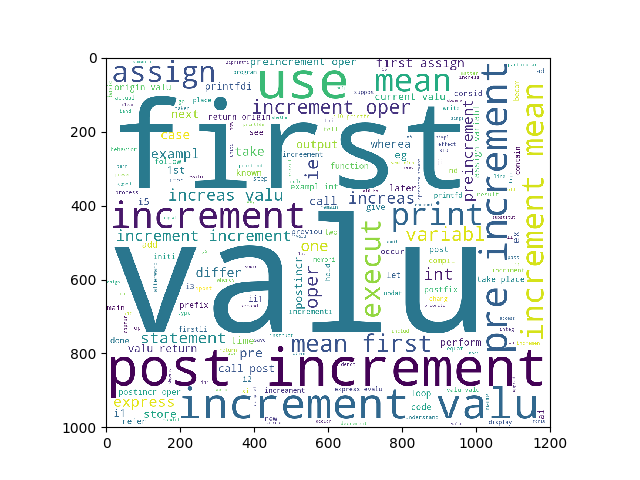
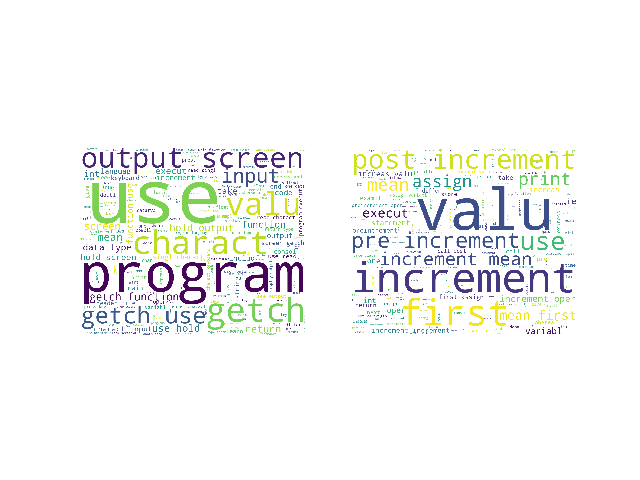
fix dataprocess

diff --git a/dataProcess.py b/dataProcess.py
@@ -1,3 +1,4 @@
+import numpy as np
 from sklearn.feature_extraction.text import TfidfVectorizer
 from sklearn.cluster import KMeans
 from wordcloud import WordCloud, STOPWORDS
@@ -14,25 +15,25 @@ def data_process(messages, k=2):
 
 
 def get_text_from_clasters(corpus, y):
-    cluster1_text = ""
-    cluster2_text = ""
     text = []
     for idx, claster in enumerate(y):
-        if claster == 0:
-            cluster1_text += corpus[idx] + " "
-        if claster == 1:
-            cluster2_text += corpus[idx] + " "
-    text.insert(1, cluster1_text)
-    text.insert(2, cluster2_text)
+        try:
+            text[claster] += corpus[idx] + " "
+            print()
+        except IndexError:
+            text.insert(claster, corpus[idx] + " ")
     return text
 
 
-def build_word_cloud(text, img_name):
-    wordcloud = WordCloud(background_color='white',
-                          width=1200,
-                          height=1000
-                          ).generate(text)
-    plt.imshow(wordcloud)
+def build_word_cloud(text_arr, img_name):
+    fig = plt.figure()
+    for i in range(0, len(text_arr)):
+        wordcloud = WordCloud(background_color='white',
+                              width=1200,
+                              height=1000
+                              ).generate(text_arr[i])
+        fig.add_subplot(1, 2, i + 1)
+        plt.imshow(wordcloud)
+        plt.axis('off')
     plt.savefig(img_name)
-    plt.axis('off')
-    plt.show()
+    plt.show(block=True)

diff --git a/database/dbProcess.py b/database/dbProcess.py
@@ -25,7 +25,9 @@ class ForumDatabase:
         return mes_to_return
 
     def get_messages_count(self, title_name: str):
+        # messages = list(self.__messages.find({"title_name": title_name}))
         messages = list(self.__messages.find({"title_name": title_name}))
+        print(messages)
         authors_list = list({})
         for message in messages:
             authors_list.insert(len(authors_list), message["author"])
@@ -42,7 +44,8 @@ class ForumDatabase:
         self.__client.close()
 
 # forum = ForumDatabase()
-# print(forum.get_messages_count("Ітератори"))
+# forum.delete_all()
+# print(forum.get_messages_count("What is the return type of main?"))
 # forum.clear()
 # forum.get_messages_count("Ітератори")
 # message = {'d': "sdsdsd"}

diff --git a/app.py b/app.py
@@ -1,4 +1,7 @@
 import sys
+
+import numpy as np
+
 from database.dbProcess import ForumDatabase
 from strProcess import message_process
 from dataProcess import data_process
@@ -12,8 +15,8 @@ def main(argv):
     messages = message_process(messages)
     y = data_process(messages)
     clusters_text = get_text_from_clasters(messages, y)
-    build_word_cloud(clusters_text[0], "img1")
-    build_word_cloud(clusters_text[1], "img2")
+    build_word_cloud(clusters_text, "img1")
+
 
 
 if __name__ == "__main__":

diff --git a/strProcess.py b/strProcess.py
@@ -1,10 +1,10 @@
 import string
 import nltk as nltk
 from nltk.stem.porter import PorterStemmer
+
 nltk.download('punkt')
 nltk.download('stopwords')
 from nltk.corpus import stopwords
-
 
 
 def stem_tokens(tokens, stemmer):
